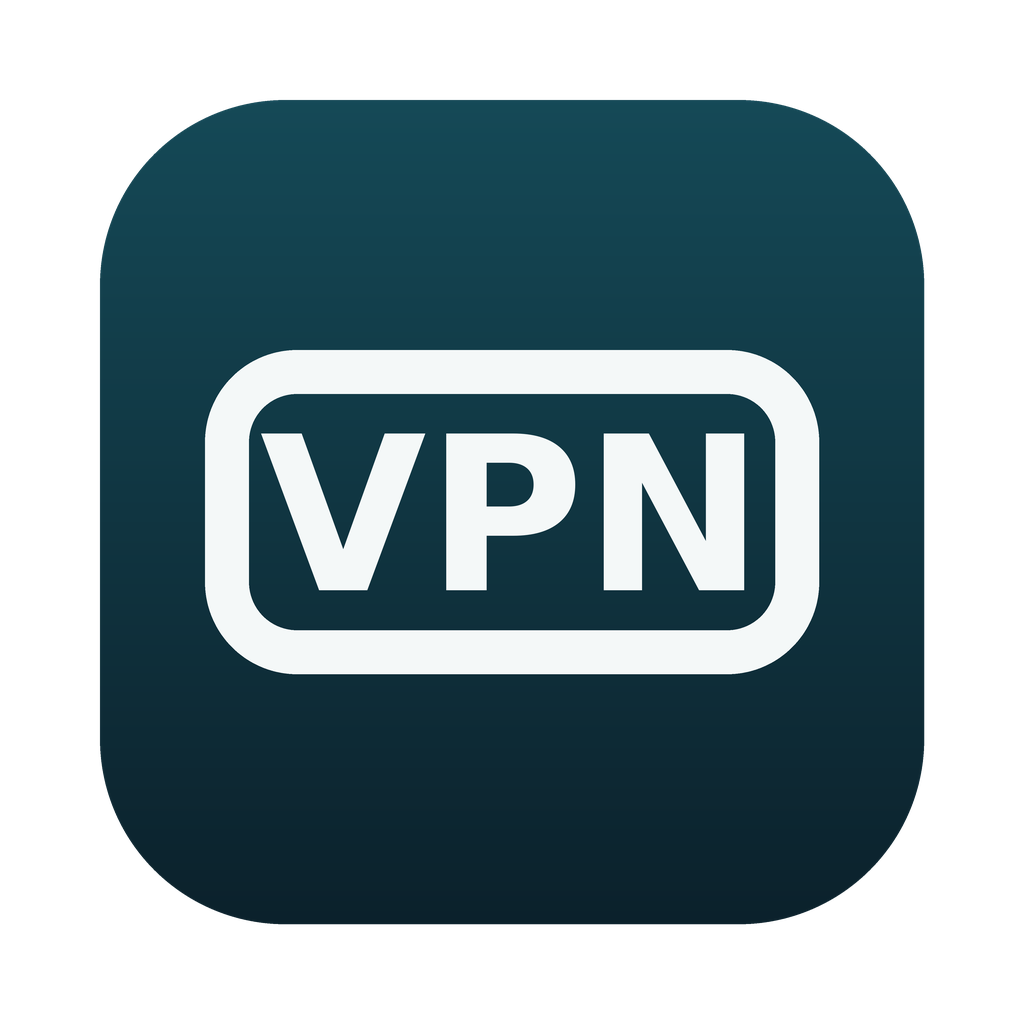
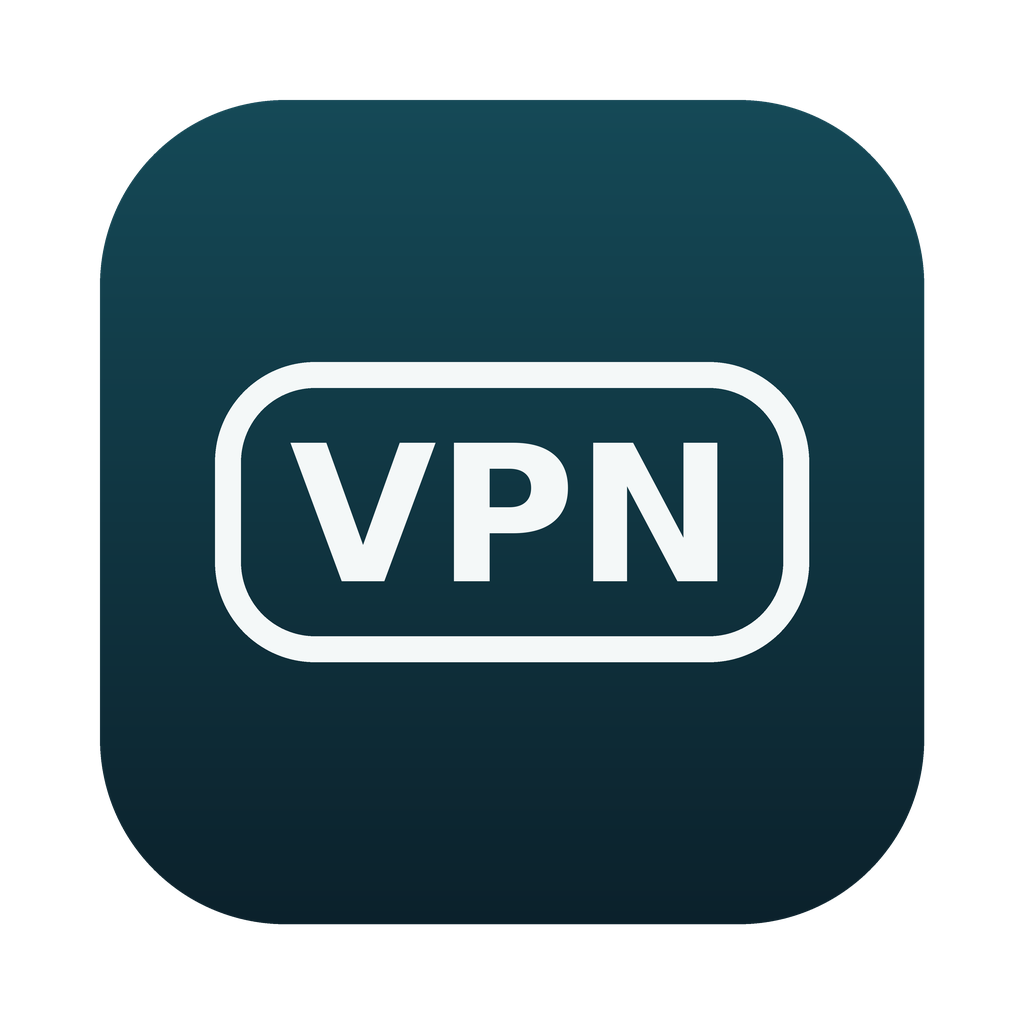
Панель: настройки свёрнуты в строку, подсветка строк, подписи без обрезки; значок тоньше
* «Отправлено» больше не обрезается, колонка сессии выделена
* Автозапуск, автопроверка, версия и сброс статистики — в раскрывающейся строке «Настройки»
* Строки меню подсвечиваются при наведении; «Подключено» — зелёным
* КБ без десятых; значок строки меню и иконка приложения с более тонкой рамкой

Changed region(s): [[0.1875, 0.3438, 0.8125, 0.6562]]

diff --git a/Sources/SinVpn/PanelView.swift b/Sources/SinVpn/PanelView.swift
@@ -1,10 +1,11 @@
 import SwiftUI
 import SinVpnCore
 
-/// Выпадающая панель: блок переключателей VPN, блок статистики и нижняя строка.
+/// Выпадающая панель: блок переключателей VPN, блок статистики и нижние строки.
 struct PanelView: View {
     @Environment(AppModel.self) private var model
     @Environment(Updater.self) private var updater
+    @State private var settingsOpen = false
     @State private var confirmReset = false
 
     var body: some View {
@@ -18,10 +19,11 @@ struct PanelView: View {
             footer
         }
         .padding(12)
-        .frame(width: 320)
+        .frame(width: 340)
         .onAppear { model.panelOpen = true }
         .onDisappear {
             model.panelOpen = false
+            settingsOpen = false
             confirmReset = false
         }
     }
@@ -61,53 +63,34 @@ struct PanelView: View {
         let session = model.session
         let today = model.today
         let month = model.month
-        return VStack(alignment: .leading, spacing: 8) {
-            Grid(alignment: .trailing, horizontalSpacing: 10, verticalSpacing: 5) {
-                GridRow {
-                    Text("").gridColumnAlignment(.leading)
-                    head("Сессия")
-                    head("Сегодня")
-                    head("30 дней")
-                }
-                GridRow {
-                    label("Время")
-                    value(session.map { DurationFormat.clock(Int($0.seconds.rounded())) })
-                    value(DurationFormat.short(Int(today.seconds)))
-                    value(DurationFormat.short(Int(month.seconds)))
-                }
-                GridRow {
-                    label("Принято")
-                    value(session.map { ByteFormat.string($0.rx) })
-                    value(ByteFormat.string(today.rx))
-                    value(ByteFormat.string(month.rx))
-                }
-                GridRow {
-                    label("Отправлено")
-                    value(session.map { ByteFormat.string($0.tx) })
-                    value(ByteFormat.string(today.tx))
-                    value(ByteFormat.string(month.tx))
-                }
+        return Grid(alignment: .trailing, horizontalSpacing: 10, verticalSpacing: 5) {
+            GridRow {
+                Text("").gridColumnAlignment(.leading)
+                head("Сессия")
+                head("Сегодня")
+                head("30 дней")
             }
-            .font(.callout)
-            .monospacedDigit()
-
-            if confirmReset {
-                HStack(spacing: 8) {
-                    Text("Обнулить все показатели?").font(.callout)
-                    Spacer(minLength: 0)
-                    Button("Сбросить", role: .destructive) {
-                        model.resetStats()
-                        confirmReset = false
-                    }
-                    Button("Отмена") { confirmReset = false }
-                }
-                .controlSize(.small)
-            } else {
-                Button("Сбросить статистику") { confirmReset = true }
-                    .buttonStyle(.link)
-                    .font(.callout)
+            GridRow {
+                label("Время")
+                value(session.map { DurationFormat.clock(Int($0.seconds.rounded())) }, primary: true)
+                value(DurationFormat.short(Int(today.seconds)))
+                value(DurationFormat.short(Int(month.seconds)))
+            }
+            GridRow {
+                label("Принято")
+                value(session.map { ByteFormat.string($0.rx) }, primary: true)
+                value(ByteFormat.string(today.rx))
+                value(ByteFormat.string(month.rx))
+            }
+            GridRow {
+                label("Отправлено")
+                value(session.map { ByteFormat.string($0.tx) }, primary: true)
+                value(ByteFormat.string(today.tx))
+                value(ByteFormat.string(month.tx))
             }
         }
+        .font(.callout)
+        .monospacedDigit()
     }
 
     private func head(_ text: String) -> some View {
@@ -117,19 +100,56 @@ struct PanelView: View {
             .frame(maxWidth: .infinity, alignment: .trailing)
     }
 
+    /// Подпись строки никогда не обрезается: ширину уступают колонки значений.
     private func label(_ text: String) -> some View {
-        Text(text).foregroundStyle(.secondary)
+        Text(text)
+            .foregroundStyle(.secondary)
+            .lineLimit(1)
+            .fixedSize()
     }
 
-    private func value(_ text: String?) -> some View {
+    /// Колонка текущей сессии выделена, итоги за периоды — обычным начертанием.
+    private func value(_ text: String?, primary: Bool = false) -> some View {
         Text(text ?? "—")
+            .fontWeight(primary ? .semibold : .regular)
             .lineLimit(1)
+            .minimumScaleFactor(0.8)
             .frame(maxWidth: .infinity, alignment: .trailing)
     }
 
-    // MARK: - Нижняя строка
+    // MARK: - Нижние строки
 
     private var footer: some View {
+        VStack(alignment: .leading, spacing: 2) {
+            // Новая версия или идущая установка видны всегда, без раскрытия настроек.
+            if updater.needsAttention {
+                updateRow.padding(.bottom, 4)
+            }
+            MenuRow(action: { settingsOpen.toggle() }) {
+                Text("Настройки")
+                Spacer(minLength: 0)
+                Image(systemName: "chevron.right")
+                    .font(.caption.weight(.semibold))
+                    .foregroundStyle(.secondary)
+                    .rotationEffect(.degrees(settingsOpen ? 90 : 0))
+            }
+            if settingsOpen {
+                settings
+                    .padding(.leading, 10)
+                    .padding(.vertical, 6)
+            }
+            MenuRow(action: { model.openVPNSettings() }) {
+                Text("Настройки VPN…")
+                Spacer(minLength: 0)
+            }
+            MenuRow(action: { model.quit() }) {
+                Text("Выйти")
+                Spacer(minLength: 0)
+            }
+        }
+    }
+
+    private var settings: some View {
         VStack(alignment: .leading, spacing: 8) {
             switchRow("Запускать при входе в систему", isOn: Binding(
                 get: { model.launchAtLogin },
@@ -139,21 +159,42 @@ struct PanelView: View {
                 get: { updater.autoCheck },
                 set: { updater.autoCheck = $0 }
             ))
-            HStack(spacing: 8) {
-                Text(updater.statusLine)
-                    .monospacedDigit()
-                    .foregroundStyle(updater.isFailed ? Color.red : Color.secondary)
-                    .help(updater.failureDetails ?? "")
-                Spacer(minLength: 0)
-                if let action = updater.actionTitle {
-                    Button(action) { updater.primaryAction() }
-                        .buttonStyle(.link)
-                }
+            if !updater.needsAttention {
+                updateRow
             }
-            .font(.callout)
-            menuButton("Настройки VPN…") { model.openVPNSettings() }
-            menuButton("Выйти") { model.quit() }
+            if confirmReset {
+                HStack(spacing: 8) {
+                    Text("Обнулить всю статистику?")
+                    Spacer(minLength: 0)
+                    Button("Сбросить", role: .destructive) {
+                        model.resetStats()
+                        confirmReset = false
+                    }
+                    Button("Отмена") { confirmReset = false }
+                }
+                .controlSize(.small)
+            } else {
+                Button("Сбросить статистику…") { confirmReset = true }
+                    .buttonStyle(.plain)
+                    .foregroundStyle(.secondary)
+            }
         }
+        .font(.callout)
+    }
+
+    private var updateRow: some View {
+        HStack(spacing: 8) {
+            Text(updater.statusLine)
+                .monospacedDigit()
+                .foregroundStyle(updater.isFailed ? Color.red : Color.primary)
+                .help(updater.failureDetails ?? "")
+            Spacer(minLength: 0)
+            if let action = updater.actionTitle {
+                Button(action) { updater.primaryAction() }
+                    .buttonStyle(.link)
+            }
+        }
+        .font(.callout)
     }
 
     private func switchRow(_ text: String, isOn: Binding<Bool>) -> some View {
@@ -163,14 +204,29 @@ struct PanelView: View {
         .toggleStyle(.switch)
         .controlSize(.mini)
     }
+}
 
-    private func menuButton(_ text: String, action: @escaping () -> Void) -> some View {
+/// Строка-кнопка, как в системных меню: подсвечивается при наведении.
+private struct MenuRow<Content: View>: View {
+    let action: () -> Void
+    @ViewBuilder let content: () -> Content
+    @State private var hovering = false
+
+    var body: some View {
         Button(action: action) {
-            Text(text)
+            HStack(spacing: 6) { content() }
+                .padding(.horizontal, 6)
+                .padding(.vertical, 4)
                 .frame(maxWidth: .infinity, alignment: .leading)
+                .background(
+                    RoundedRectangle(cornerRadius: 5)
+                        .fill(Color.primary.opacity(hovering ? 0.1 : 0))
+                )
                 .contentShape(Rectangle())
         }
         .buttonStyle(.plain)
+        .padding(.horizontal, -6)
+        .onHover { hovering = $0 }
     }
 }
 
@@ -202,9 +258,10 @@ private struct VPNRow: View {
         }
     }
 
+    /// Синий оставлен только интерактивным элементам; «Подключено» — зелёным.
     private var statusColor: Color {
         switch state {
-        case .on: return .accentColor
+        case .on: return .green
         case .failed: return .red
         default: return .secondary
         }

diff --git a/Sources/SinVpn/SinVpnApp.swift b/Sources/SinVpn/SinVpnApp.swift
@@ -41,12 +41,12 @@ enum MenuBarIcon {
     static let on = make(filled: true, alpha: 1)
 
     private static func make(filled: Bool, alpha: CGFloat) -> NSImage {
-        let size = NSSize(width: 29, height: 16)
+        let size = NSSize(width: 28, height: 15)
         let image = NSImage(size: size, flipped: false) { rect in
             let color = NSColor.black.withAlphaComponent(alpha)
-            let kern: CGFloat = 0.7
+            let kern: CGFloat = 1.0
             let text = NSAttributedString(string: "VPN", attributes: [
-                .font: NSFont.systemFont(ofSize: 9.5, weight: .heavy),
+                .font: NSFont.systemFont(ofSize: 8.5, weight: .bold),
                 .kern: kern,
                 .foregroundColor: color,
             ])
@@ -62,8 +62,8 @@ enum MenuBarIcon {
                 text.draw(at: origin)
                 NSGraphicsContext.current?.compositingOperation = .sourceOver
             } else {
-                let frame = NSBezierPath(roundedRect: rect.insetBy(dx: 0.75, dy: 0.75), xRadius: 4, yRadius: 4)
-                frame.lineWidth = 1.5
+                let frame = NSBezierPath(roundedRect: rect.insetBy(dx: 0.5, dy: 0.5), xRadius: 4.5, yRadius: 4.5)
+                frame.lineWidth = 1
                 color.setStroke()
                 frame.stroke()
                 text.draw(at: origin)

diff --git a/Sources/SinVpnCore/Formatting.swift b/Sources/SinVpnCore/Formatting.swift
@@ -1,12 +1,12 @@
 import Foundation
 
-/// Объём трафика: КБ / МБ / ГБ, одна цифра после запятой («1,4 ГБ»).
+/// Объём трафика: МБ и ГБ — с одной цифрой после запятой («1,4 ГБ»), КБ — целые («810 КБ»).
 public enum ByteFormat {
     public static func string(_ bytes: UInt64) -> String {
         let b = Double(bytes)
         if b >= 1e9 { return number(b / 1e9) + " ГБ" }
         if b >= 1e6 { return number(b / 1e6) + " МБ" }
-        return number(b / 1e3) + " КБ"
+        return String(Int((b / 1e3).rounded())) + " КБ"
     }
 
     static func number(_ value: Double) -> String {

diff --git a/Sources/SinVpn/AppModel.swift b/Sources/SinVpn/AppModel.swift
@@ -218,7 +218,11 @@ final class AppModel {
 
     // MARK: - Значок
 
+    private static let iconPreview = ProcessInfo.processInfo.environment["SINVPN_ICON_PREVIEW"]
+
     var menuBarImage: NSImage {
+        // Только для скриншотов в CI: SINVPN_ICON_PREVIEW=on показывает залитый значок.
+        if Self.iconPreview == "on" { return MenuBarIcon.on }
         if services.contains(where: { $0.status == .connected }) { return MenuBarIcon.on }
         if isTransitional { return blink ? MenuBarIcon.dim : MenuBarIcon.off }
         return MenuBarIcon.off

diff --git a/Sources/SinVpn/Updater.swift b/Sources/SinVpn/Updater.swift
@@ -72,6 +72,14 @@ final class Updater {
         }
     }
 
+    /// Есть новая версия или идёт установка — строку обновления нужно показать вне настроек.
+    var needsAttention: Bool {
+        switch state {
+        case .available, .downloading, .installing, .failed(_, .some(_)): return true
+        case .idle, .checking, .upToDate, .failed(_, .none): return false
+        }
+    }
+
     var isFailed: Bool {
         if case .failed = state { return true }
         return false

diff --git a/Tests/SinVpnCoreTests/CoreTests.swift b/Tests/SinVpnCoreTests/CoreTests.swift
@@ -151,8 +151,8 @@ final class StatsStoreTests: XCTestCase {
 
 final class FormattingTests: XCTestCase {
     func testBytes() {
-        XCTAssertEqual(ByteFormat.string(0), "0,0 КБ")
-        XCTAssertEqual(ByteFormat.string(512_000), "512,0 КБ")
+        XCTAssertEqual(ByteFormat.string(0), "0 КБ")
+        XCTAssertEqual(ByteFormat.string(512_000), "512 КБ")
         XCTAssertEqual(ByteFormat.string(27_900_000), "27,9 МБ")
         XCTAssertEqual(ByteFormat.string(1_400_000_000), "1,4 ГБ")
     }

diff --git a/scripts/make-icon.py b/scripts/make-icon.py
@@ -29,9 +29,9 @@ def main(out):
 
     # Рамка и слово VPN.
     white = (244, 248, 248, 255)
-    fx, fy = 205 * S, 350 * S
-    d.rounded_rectangle([fx, fy, N - fx, N - fy], radius=92 * S, outline=white, width=44 * S)
-    font = ImageFont.truetype(FONT, 215 * S)
+    fx, fy = 215 * S, 362 * S
+    d.rounded_rectangle([fx, fy, N - fx, N - fy], radius=100 * S, outline=white, width=26 * S)
+    font = ImageFont.truetype(FONT, 190 * S)
     box = d.textbbox((0, 0), "VPN", font=font)
     w, h = box[2] - box[0], box[3] - box[1]
     d.text(((N - w) / 2 - box[0], (N - h) / 2 - box[1]), "VPN", font=font, fill=white)
